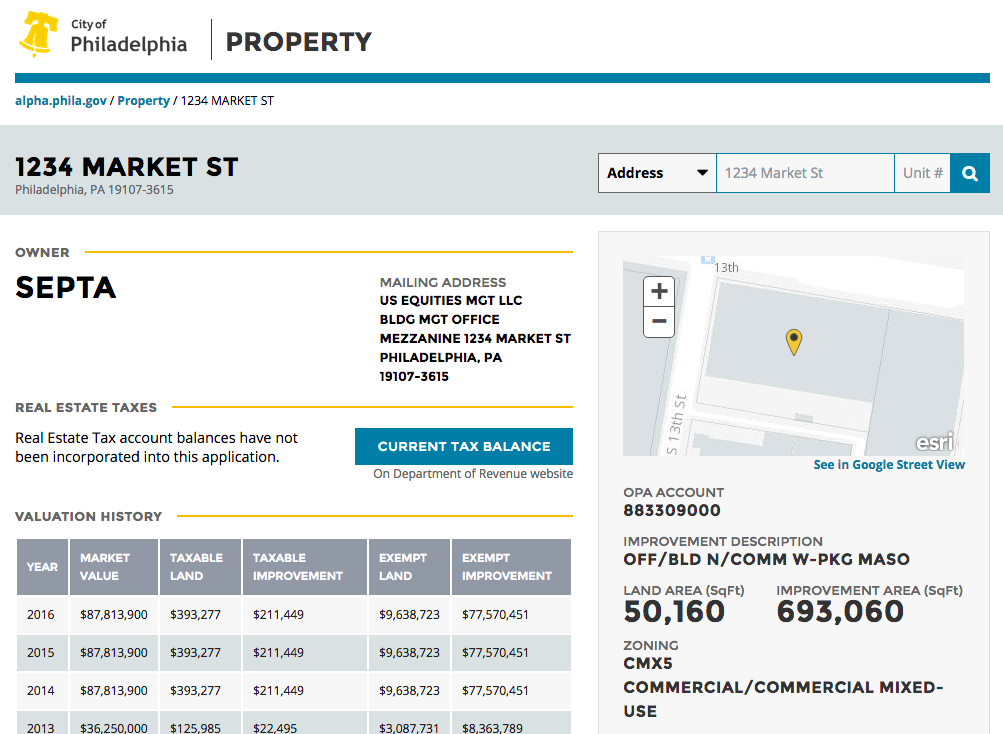
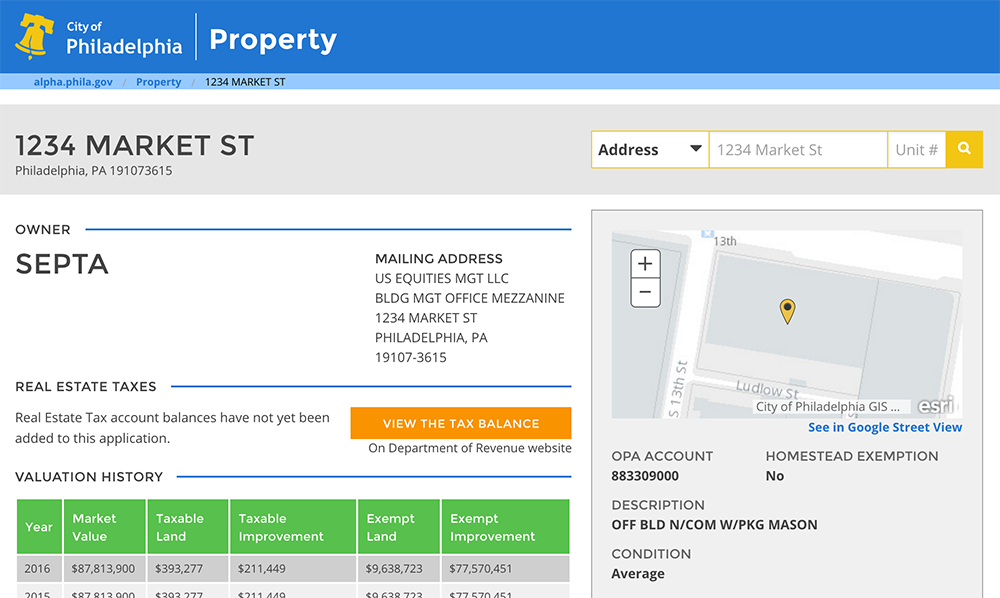
Update Open Graph data to reflect redesign

diff --git a/index.html b/index.html
@@ -18,8 +18,8 @@
     <meta property="og:site_name" content="Property" />
     <meta property="og:image" content="img/property.png" />
     <meta property="og:image:type" content="image/png">
-    <meta property="og:image:width" content="1003">
-    <meta property="og:image:height" content="734">
+    <meta property="og:image:width" content="1000">
+    <meta property="og:image:height" content="598">
     <meta property="og:description" content="Find valuations, real estate taxes, physical details, trash and recycling days, school information, and city service areas for properties within the City of Philadelphia." />
 
     <meta name="twitter:card" content="photo" />
